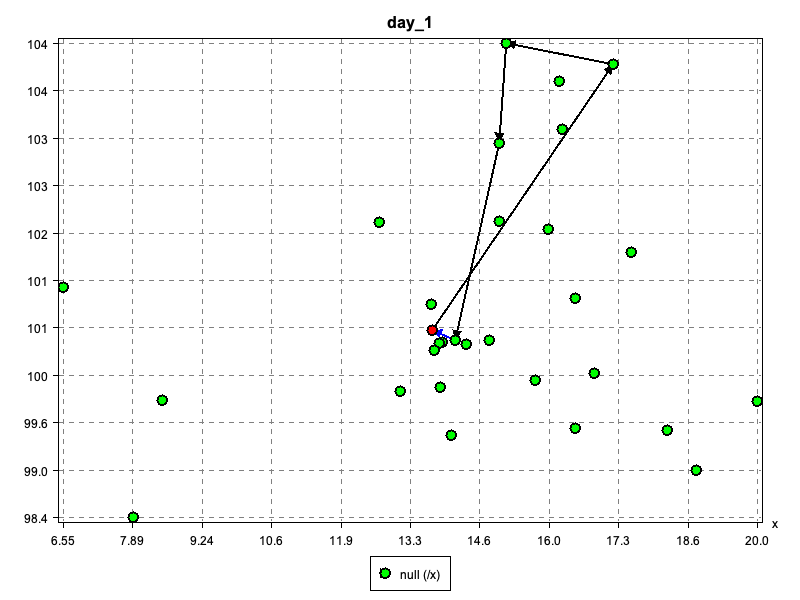
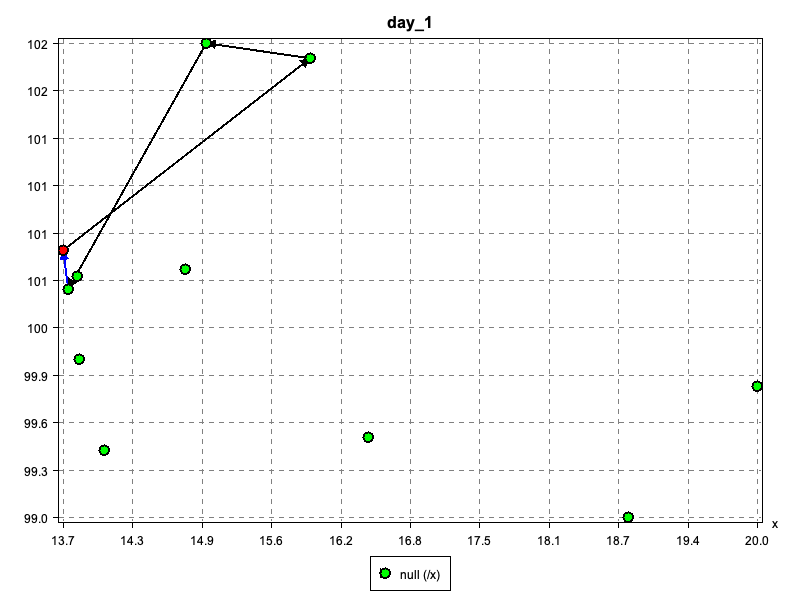
change crossover function

diff --git a/src/CPE341/GeneticAlgorithm.java b/src/CPE341/GeneticAlgorithm.java
@@ -9,17 +9,17 @@ class GeneticAlgorithm {
     private int populationSize;
     private double crossoverRate;
     private double mutationRate;
-    private double terminateRate;
+    private int terminateGeneration;
     private Population population;
     private int generation;
     private int problemSize;
 
     GeneticAlgorithm(int problemSize, int populationSize, double crossoverRate, double mutationRate,
-            double terminateRate) {
+            int terminateGeneration) {
         this.populationSize = populationSize;
         this.crossoverRate = crossoverRate;
         this.mutationRate = mutationRate;
-        this.terminateRate = terminateRate;
+        this.terminateGeneration = terminateGeneration;
         this.generation = 1;
         this.problemSize = problemSize;
     }
@@ -47,10 +47,14 @@ class GeneticAlgorithm {
         Collections.sort(population.getIndividuals());
     }
 
+    // boolean isTerminate() {
+    // int modeFrequency = presortMode(population.getIndividuals());
+    // double percent = ((double) modeFrequency / populationSize);
+    // return percent >= terminateRate;
+    // }
+
     boolean isTerminate() {
-        int modeFrequency = presortMode(population.getIndividuals());
-        double percent = ((double) modeFrequency / populationSize);
-        return percent >= terminateRate;
+        return generation >= terminateGeneration;
     }
 
     private int presortMode(ArrayList<Individual> individuals) {
@@ -82,24 +86,143 @@ class GeneticAlgorithm {
         return null;
     }
 
-    private Individual crossover(Individual parent1, Individual parent2) {
-        ArrayList<Integer> offspring = new ArrayList<>();
-        for (int i = 1; i < problemSize + 1; i++)
-            offspring.add(null);
-        Random random = new Random();
-        int startPoint = random.nextInt(problemSize / 2) + 1;
-        int endPoint = random.nextInt(problemSize - 1 - startPoint) + (startPoint + 1);
-        for (int i = startPoint + 1; i <= endPoint; i++)
-            offspring.set(i, parent2.getChromosome().get(i));
-        for (int i = 0; i < problemSize; i++) {
-            if (i <= startPoint || i >= endPoint + 1) {
-                int index = i;
-                while (offspring.contains(parent1.getChromosome().get(index)))
-                    index = offspring.indexOf(parent1.getChromosome().get(index));
-                offspring.set(i, parent1.getChromosome().get(index));
+    // public Individual crossover(Individual parent1, Individual parent2) {
+    // Random firstRNum = new Random();
+    // Random secondRNum = new Random();
+
+    // int randomNo_Boundary = (parent1.getChromosome().size()) - 1;
+    // ArrayList<Integer> offspring1 = parent1.getChromosome();
+    // ArrayList<Integer> offspring2 = parent2.getChromosome();
+
+    // int startedPoint = firstRNum.nextInt(randomNo_Boundary);
+    // int endPoint = secondRNum.nextInt(randomNo_Boundary);
+
+    // while (startedPoint == endPoint) {
+    // endPoint = secondRNum.nextInt(randomNo_Boundary);
+    // }
+
+    // if (startedPoint > endPoint) {
+    // int temp = startedPoint;
+    // startedPoint = endPoint;
+    // endPoint = temp;
+    // }
+
+    // for (int i = startedPoint + 1; i <= endPoint; i++)
+    // offspring1.set(i, parent2.getChromosome().get(i));
+    // for (int i = 0; i < problemSize; i++) {
+    // if (i <= startedPoint || i >= endPoint + 1) {
+    // int index = i;
+    // while (offspring1.contains(parent1.getChromosome().get(index))) {
+    // System.out.println("sdsd");
+    // index = offspring1.indexOf(parent2.getChromosome().get(index));
+    // }
+    // offspring1.set(i, parent1.getChromosome().get(index));
+    // }
+    // }
+
+    // return new Individual(offspring1);
+    // }
+
+    // private Individual crossover(Individual parent1, Individual parent2) {
+    // ArrayList<Integer> offspring = new ArrayList<>();
+    // for (int i = 1; i < problemSize + 1; i++)
+    // offspring.add(null);
+    // Random random = new Random();
+    // int startPoint = random.nextInt(problemSize / 2) + 1;
+    // int endPoint = random.nextInt(problemSize - 1 - startPoint) + (startPoint +
+    // 1);
+
+    // for (int i = startPoint + 1; i <= endPoint; i++)
+    // offspring.set(i, parent2.getChromosome().get(i));
+
+    // for (int i = 0; i < problemSize; i++) {
+    // if (i <= startPoint || i >= endPoint + 1) {
+    // int index = i;
+    // while (offspring.contains(parent1.getChromosome().get(index))) {
+    // index = offspring.indexOf(parent1.getChromosome().get(index));
+    // System.out.println(index);
+    // }
+
+    // offspring.set(i, parent1.getChromosome().get(index));
+    // }
+    // }
+    // return new Individual(offspring);
+    // }
+
+    public ArrayList<Integer> pmx(ArrayList<Integer> x, ArrayList<Integer> y, int index1, int index2) {
+
+        boolean visited[] = new boolean[x.size() + 2]; // all false, are the node visited?
+
+        ArrayList<Integer> z = new ArrayList<Integer>();// same dimensions as x
+
+        for (int i = 0; i < x.size(); i++) {
+            z.add(0);
+        }
+
+        for (int i = index1; i <= index2; i++) {
+            z.set(i, x.get(i));
+            visited[z.get(i)] = true;
+        }
+        int k = index1;
+        // Traverse parent2
+        for (int i = index1; i <= index2; i++) { // para cada elemento del segmente
+            if (!visited[y.get(i)]) {
+                k = i;
+                int elementToBeCopied = y.get(i); // copiando el elemento desde la madre
+                do {
+                    int V = x.get(k);
+                    // search in the mother ofr the index where the V is.
+                    for (int j = 0; j < y.size(); j++) {
+                        if (y.get(j) == V) {
+                            k = j;
+                        }
+                    }
+                } while (z.get(k) != 0);
+                z.set(k, elementToBeCopied);
+                visited[z.get(k)] = true;
             }
         }
-        return new Individual(offspring);
+
+        // copy the reminder elements from y
+
+        for (int i = 0; i < z.size(); i++) {
+            if (z.get(i) == 0)
+                z.set(i, y.get(i));
+        }
+        return z;
+    }
+
+    private int randomNumber(int min, int max) {
+        Random random = new Random();
+        return random.nextInt((max - min) + 1) + min;
+    }
+
+    private Individual crossover(Individual parent1, Individual parent2) {
+        Random firstRNum = new Random();
+        Random secondRNum = new Random();
+
+        int randomNo_Boundary = (parent1.getChromosome().size()) - 1;
+
+        int startPoint = firstRNum.nextInt(randomNo_Boundary);
+        int endPoint = secondRNum.nextInt(randomNo_Boundary);
+
+        while (startPoint == endPoint) {
+            endPoint = secondRNum.nextInt(randomNo_Boundary);
+        }
+
+        if (startPoint > endPoint) {
+            int temp = startPoint;
+            startPoint = endPoint;
+            endPoint = temp;
+        }
+
+        if (randomNumber(0, 1) > 0.5) {
+            return new Individual(pmx(parent1.getChromosome(), parent2.getChromosome(),
+                    startPoint, endPoint));
+        } else {
+            return new Individual(pmx(parent2.getChromosome(), parent1.getChromosome(),
+                    startPoint, endPoint));
+        }
     }
 
     private void mutation(int[][] distance, int[][] travelDuration, int[] nodeDuration) {
@@ -113,8 +236,8 @@ class GeneticAlgorithm {
     void createNewPopulation(int[][] distance, int[][] travelDuration, int[] nodeDuration) {
         ArrayList<Individual> newIndividuals = new ArrayList<>();
         for (int i = 0; i < crossoverRate * populationSize; i++) {
-            int index = (int) (Math.random() * (population.getIndividuals().size() - 1 - 0 + 1) + 0);
-            Individual individual = crossover(rouletteWheelSelection(), population.getIndividuals().get(index));
+            Individual individual = crossover(rouletteWheelSelection(),
+                    population.getIndividuals().get(randomNumber(0, population.getIndividuals().size() - 1)));
             individual.calculateFitness(distance, travelDuration, nodeDuration);
             newIndividuals.add(individual);
         }

diff --git a/src/CPE341/VehicleRoutingProblem.java b/src/CPE341/VehicleRoutingProblem.java
@@ -17,7 +17,8 @@ public class VehicleRoutingProblem {
 
         ArrayList<GenerationData> generationData = new ArrayList<>();
         long startTime = System.currentTimeMillis();
-        GeneticAlgorithm geneticAlgorithm = new GeneticAlgorithm(30, 5000, 0.75, 0.01, .75);
+
+        GeneticAlgorithm geneticAlgorithm = new GeneticAlgorithm(10, 400, 0.7, 0.4, 3000);
         geneticAlgorithm.initialPopulation();
 
         Boolean stop;
@@ -25,20 +26,11 @@ public class VehicleRoutingProblem {
             geneticAlgorithm.evaluation(preparator.getDistance(),
                     preparator.getTravelDuration(),
                     preparator.getNodeDuration());
-
-            generationData.add(new GenerationData(geneticAlgorithm.getGeneration(),
+            GenerationData g = new GenerationData(geneticAlgorithm.getGeneration(),
                     geneticAlgorithm.getPopulation().getIndividuals().get(0),
-                    geneticAlgorithm.getAverageFitness()));
+                    geneticAlgorithm.getAverageFitness());
+            generationData.add(g);
 
-            stop = geneticAlgorithm.isTerminate();
-            if (!stop) {
-                geneticAlgorithm.createNewPopulation(preparator.getDistance(),
-                        preparator.getTravelDuration(),
-                        preparator.getNodeDuration());
-            }
-        } while (!stop);
-        long stopTime = System.currentTimeMillis();
-        for (GenerationData g : generationData) {
             System.out.print("Gen : " + g.getGeneration() + ", ");
             System.out.print("Best distance: " + g.getIndividual().getFitness() / 1000 +
                     "km, ");
@@ -48,16 +40,39 @@ public class VehicleRoutingProblem {
             System.out.print("Days : " +
                     Arrays.toString(g.getIndividual().getDays().toArray()) + " ("
                     + g.getIndividual().getDays().size() + " days), ");
-            System.out.print("Average distance : " + g.getAverageDistance() / 1000 + "km\n");
-        }
+            System.out.print("Average distance : " + g.getAverageDistance() / 1000 +
+                    "km\n");
+
+            stop = geneticAlgorithm.isTerminate();
+            if (!stop) {
+                geneticAlgorithm.createNewPopulation(preparator.getDistance(),
+                        preparator.getTravelDuration(),
+                        preparator.getNodeDuration());
+            }
+        } while (!stop);
+        long stopTime = System.currentTimeMillis();
+        // for (GenerationData g : generationData) {
+        // System.out.print("Gen : " + g.getGeneration() + ", ");
+        // System.out.print("Best distance: " + g.getIndividual().getFitness() / 1000 +
+        // "km, ");
+        // System.out.print("Path : " +
+        // Arrays.toString(g.getIndividual().getPath().toArray()) + ", ");
+
+        // System.out.print("Days : " +
+        // Arrays.toString(g.getIndividual().getDays().toArray()) + " ("
+        // + g.getIndividual().getDays().size() + " days), ");
+        // System.out.print("Average distance : " + g.getAverageDistance() / 1000 +
+        // "km\n");
+        // }
         System.out.println("Running Time : " + (stopTime - startTime) + " ms");
 
-        RoutePlotter routePlotter = new RoutePlotter();
-        try {
-            routePlotter.plot(generationData.get(generationData.size() - 1).getIndividual().getPath(), geolocation,
-                    generationData.get(generationData.size() - 1).getIndividual().getDays());
-        } catch (IOException e) {
-            System.out.println(e.getMessage());
-        }
+        // RoutePlotter routePlotter = new RoutePlotter();
+        // try {
+        // routePlotter.plot(generationData.get(generationData.size() -
+        // 1).getIndividual().getPath(), geolocation,
+        // generationData.get(generationData.size() - 1).getIndividual().getDays());
+        // } catch (IOException e) {
+        // System.out.println(e.getMessage());
+        // }
     }
 }

diff --git a/non_dominate/main.go b/non_dominate/main.go
@@ -31,7 +31,6 @@ func readFile(filename string) []string {
 
 func getFitness(s string) (float64, float64) {
 	elements := strings.Split(s, " ")
-	elements = elements[len(elements)-2:]
 
 	time, err := strconv.ParseFloat(elements[0], 64)
 	if err != nil {
@@ -76,7 +75,7 @@ func main() {
 	var wg sync.WaitGroup
 	var mutex sync.Mutex
 
-	solutions = readFile("solutions10.txt")
+	solutions = readFile("solutions10-final.txt")
 
 	for index, solution := range solutions {
 		wg.Add(1)
